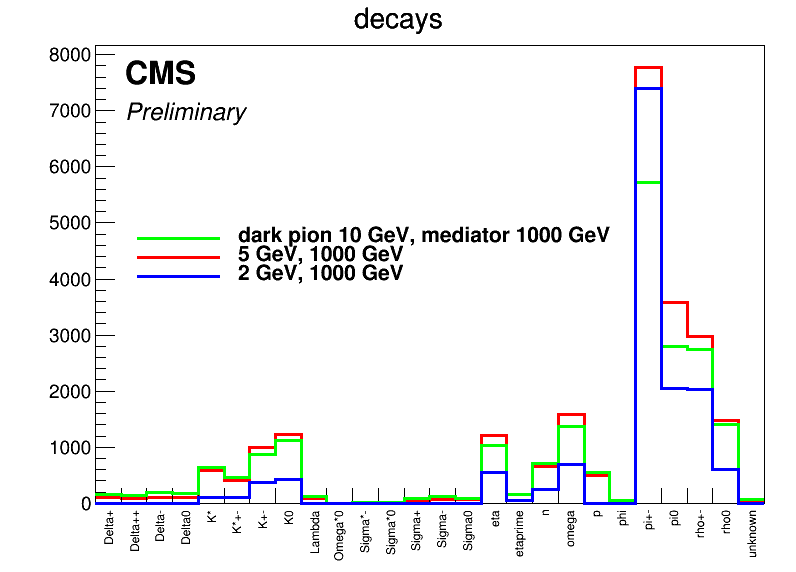
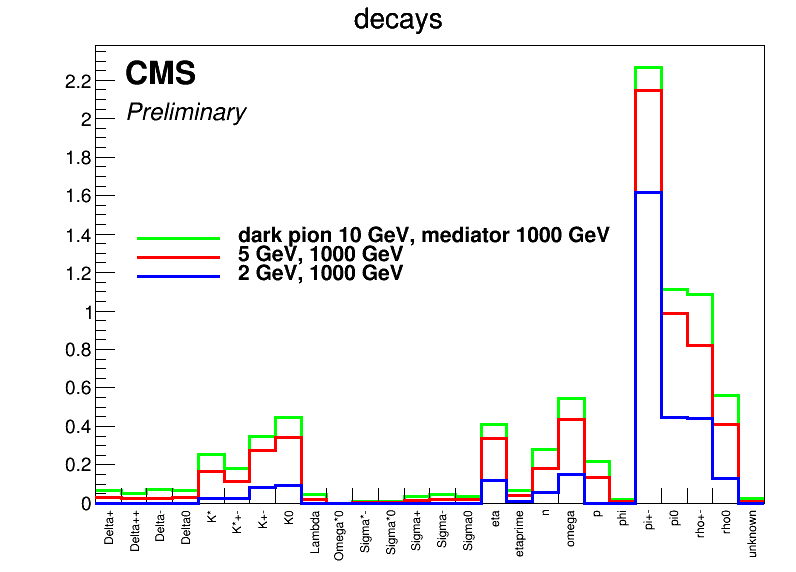
haha

diff --git a/CMSPLOTS/species.C b/CMSPLOTS/species.C
@@ -79,31 +79,47 @@ void species()
  TLegend *lgd = new TLegend(x0_l,y0_l,x1_l, y1_l); 
   lgd->SetBorderSize(0); lgd->SetTextSize(0.04); lgd->SetTextFont(62); lgd->SetFillColor(0);
 
+
+  
+  TH1F *A_cnt = static_cast<TH1F*>(f1->Get("GenAnalyzer/count")->Clone());
+  float aaA = A_cnt->GetBinContent(3);
+  cout<<" number of dark pions is "<<aaA<<endl;
+  TH1F *A_pt = static_cast<TH1F*>(f1->Get("GenAnalyzer/decays")->Clone());
+  A_pt->Scale(1./aaA);
+
+  A_pt->SetDirectory(0);
+  A_pt->SetLineColor(3);
+  A_pt->SetLineWidth(3);
+  A_pt->SetStats(0);
+  A_pt->Draw("");
+
+
+  TH1F *B_cnt = static_cast<TH1F*>(f2->Get("GenAnalyzer/count")->Clone());
+  float aaB = B_cnt->GetBinContent(3);
+  cout<<" number of dark pions is "<<aaB<<endl;
   TH1F *B_pt = static_cast<TH1F*>(f2->Get("GenAnalyzer/decays")->Clone());
+  B_pt->Scale(1./aaB);
   
   B_pt->SetDirectory(0);
   B_pt->SetLineColor(2);
   B_pt->SetLineWidth(3);
   B_pt->SetStats(0);
   
-  B_pt->Draw("");
-
-  
-  TH1F *A_pt = static_cast<TH1F*>(f1->Get("GenAnalyzer/decays")->Clone());
-  A_pt->SetDirectory(0);
-  A_pt->SetLineColor(3);
-  A_pt->SetLineWidth(3);
-  A_pt->SetStats(0);
-  A_pt->Draw("same");
+  B_pt->Draw("same");
 
 
+
+  TH1F *C_cnt = static_cast<TH1F*>(f3->Get("GenAnalyzer/count")->Clone());
+  float aaC = C_cnt->GetBinContent(3);
+  cout<<" number of dark pions is "<<aaC<<endl;
   TH1F *C_pt = static_cast<TH1F*>(f3->Get("GenAnalyzer/decays")->Clone());
   
   C_pt->SetDirectory(0);
   C_pt->SetLineColor(4);
   C_pt->SetLineWidth(3);
   C_pt->SetStats(0);
-  
+  C_pt->Scale(1./aaC);  
+
   C_pt->Draw("same");
  
  lgd->AddEntry(A_pt, "dark pion 10 GeV, mediator 1000 GeV", "l");

diff --git a/EMJGenAnalyzer/plugins/EMJGenAnalyzer.cc b/EMJGenAnalyzer/plugins/EMJGenAnalyzer.cc
@@ -268,7 +268,7 @@ EMJGenAnalyzer::EMJGenAnalyzer(const edm::ParameterSet& iConfig) {
 
 
     // Initialize tree                                                                             
-  namea="eventcount"  ; histoMap1D_.emplace( namea , fs->make<TH1D>(namea.c_str() , namea.c_str(), 100 , 0., 50.) );
+  namea="count"  ; histoMap1D_.emplace( namea , fs->make<TH1D>(namea.c_str() , namea.c_str(), 100 , 0., 100.) );
   namea="darkpionmass"  ; histoMap1D_.emplace( namea , fs->make<TH1D>(namea.c_str() , namea.c_str(), 100 , 0., 50.) );
   namea="darkdaughters"  ; histoMap1D_.emplace( namea , fs->make<TH1D>(namea.c_str() , namea.c_str(), 2000 , 0., 2000.) );
   namea="decays"  ; histoMap1D_.emplace( namea , fs->make<TH1F>(namea.c_str() , namea.c_str(), 3,0,3) );
@@ -320,8 +320,8 @@ bool
 EMJGenAnalyzer::filter(edm::Event& iEvent, const edm::EventSetup& iSetup)
 {
   icnt_=1;
-  histoMap1D_["eventcount"]->Fill(icnt_);
-  icnt_++;
+  histoMap1D_["count"]->Fill(icnt_);
+
 
 
   // Reset output tree to default values                                                                     
@@ -502,6 +502,10 @@ EMJGenAnalyzer::filter(edm::Event& iEvent, const edm::EventSetup& iSetup)
 	  std::cout<<" preparing stable daughters "<<ndauch<<std::endl;
 	  std::cout<<" for a "<<darkName[iiid]<<std::endl;
 	  std::cout<<" id  pt  charge stable? name "<<std::endl;
+	}
+	if(iiid==4900111) {
+	  icnt_=2;
+          histoMap1D_["count"]->Fill(icnt_);
 	}
 	for(int jj=0;jj<ndau;jj++) {  // loop over daughters    
 	  aiiid=abs((igen->daughter(jj))->pdgId());
